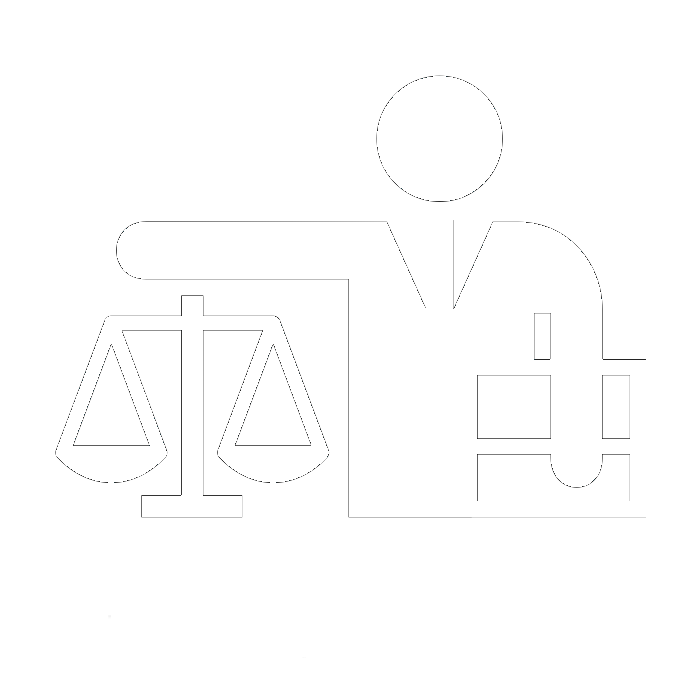
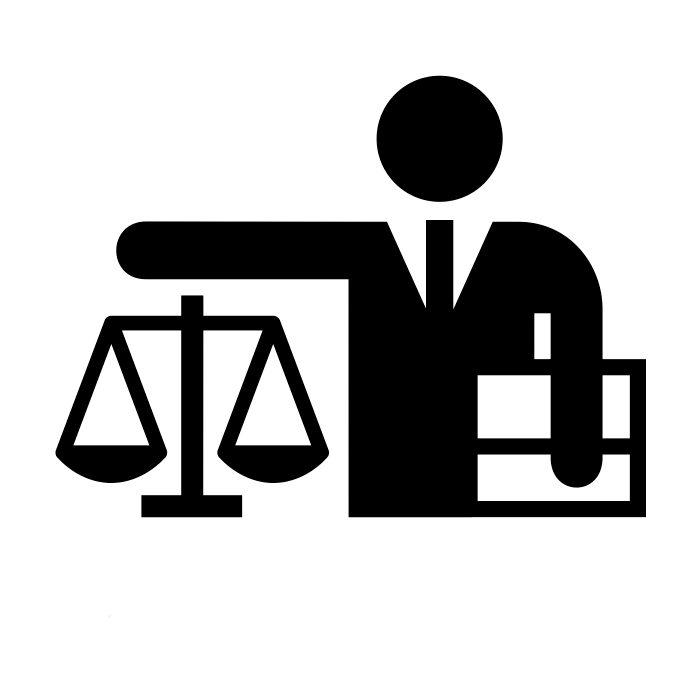
- Alteração da cor dos ícones da tela 1. - Início da alteração de cores dos ícones da tela 2.

Changed region(s): [[0.06, 0.09, 0.93, 0.75]]

diff --git a/src/app/pages/tela2/indicadoresSociais/indicadoresSociais.html b/src/app/pages/tela2/indicadoresSociais/indicadoresSociais.html
@@ -33,19 +33,22 @@
 
   <hr>
   <tr>
-    <td class="fonte">  <i class="ion-checkmark"></i> BENEFÍCIOS EVENTUAIS
+    <td class="fonte"> <img src="{{ ( 'check'| baProfilePicture ) }}" width="40" height="30" >
+      BENEFÍCIOS EVENTUAIS
       <img class="alinhadir" src="{{ ( 'beneficios-eventuais'| baProfilePicture ) }}" width="30" height="25" > </td>
   </tr>
 
   <hr>
   <tr>
-     <td class="fonte">  <i class="ion-checkmark"></i> PAIF
+     <td class="fonte"> <img src="{{ ( 'check'| baProfilePicture ) }}" width="40" height="30" >
+       PAIF
        <img class="alinhadir" src="{{ ( 'paif'| baProfilePicture ) }}" width="30" height="25" > </td>
    </tr>
 
   <hr>
   <tr>
-    <td class="fonte"> <i class="ion-close"></i> PAEFI
+    <td class="fonte"> &nbsp; <img src="{{ ( 'uncheck'| baProfilePicture ) }}" width="30" height="25" >
+      PAEFI
       <img class="alinhadir" src="{{ ( 'paefi'| baProfilePicture ) }}" width="30" height="25" > </td>
   </tr>
 </table>

diff --git a/src/app/pages/tela1/pecasAtuacao/pecasAtuacao.html b/src/app/pages/tela1/pecasAtuacao/pecasAtuacao.html
@@ -3,7 +3,7 @@
     <thead >
     <tr class="black-muted-bg">
       <td class="pecas-icons"> </td>
-      <td > <img src="{{ ( 'pecas-de-atuacao'| baProfilePicture ) }}" width="40" height="50" > <b> PEÇAS DE ATUAÇÃO </b> <br>
+      <td > <img src="{{ ( 'pecas-de-atuacao2'| baProfilePicture ) }}" width="40" height="50" > <b> PEÇAS DE ATUAÇÃO </b> <br>
         Modelos padrão de documentos  MPRJ para utilização pelos usuários </td>
     </tr>
     </thead>

diff --git a/src/app/pages/tela2/dadosMunicipais2/dadosMunicipais2.scss b/src/app/pages/tela2/dadosMunicipais2/dadosMunicipais2.scss
@@ -40,7 +40,7 @@
 .equipamentos{
   font-family: "Arial Black", arial-black;
   font-size: 15px;
-  color:lightgray;
+  color:#212121 ;
   text-align: center;
 
 }
@@ -48,7 +48,7 @@
  .municipio{
    font-family: "Arial Black", arial-black;
    font-size: 15px;
-   color: lightgray;
+   color: #212121 ;
 
  }
 
@@ -56,6 +56,6 @@
 hr{
   border: 1px solid;
   margin-top: auto;
-  margin-left: 70%;
-  width:30%;
+  margin-left: 73%;
+  width:28%;
 }

diff --git a/src/app/pages/tela1/orcamento/orcamento.html b/src/app/pages/tela1/orcamento/orcamento.html
@@ -4,7 +4,7 @@
 
     <tr class="black-muted-bg">
       <td class="orcamento-icons"> </td>
-      <td> <img src="{{ ( 'orcamento'| baProfilePicture ) }}" width="40" height="50" > <b> ORÇAMENTOS </b> <br>
+      <td> <img src="{{ ( 'orcamento2'| baProfilePicture ) }}" width="40" height="50" > <b> ORÇAMENTOS </b> <br>
         Relação de orçamentos federais, estaduais e municipais </td>
     </tr>
 

diff --git a/src/app/theme/sass/conf/colorSchemes/_dark.scss b/src/app/theme/sass/conf/colorSchemes/_dark.scss
@@ -59,7 +59,7 @@ $hoverlink: $primary-dark;
 @mixin body-bg() {
   background-color: $body-bg;
 
-  $mainBgUrl: $images-root + 'tema6.png';
+  $mainBgUrl: $images-root + 'tema5.png';
 
   &::before {
     content: '';

diff --git a/src/app/pages/tela2/indicadoresSociais/indicadoresSociais.scss b/src/app/pages/tela2/indicadoresSociais/indicadoresSociais.scss
@@ -2,6 +2,7 @@
   float:right;
 }
 
+
 .alinhacentro{
   text-align:right;
   width: 69%;
@@ -14,6 +15,7 @@
   font-size: 15px;
   font-weight: bold;
   color: white;
+  float: left;
 }
 
 .fonte2{

diff --git a/src/app/pages/tela2/rioDeJaneiro/rioDeJaneiro.scss b/src/app/pages/tela2/rioDeJaneiro/rioDeJaneiro.scss
@@ -27,6 +27,7 @@
 
 table{
   font-size: 10px;
+
 }
 .fonte{
   font-family: "Arial Black", arial-black;
